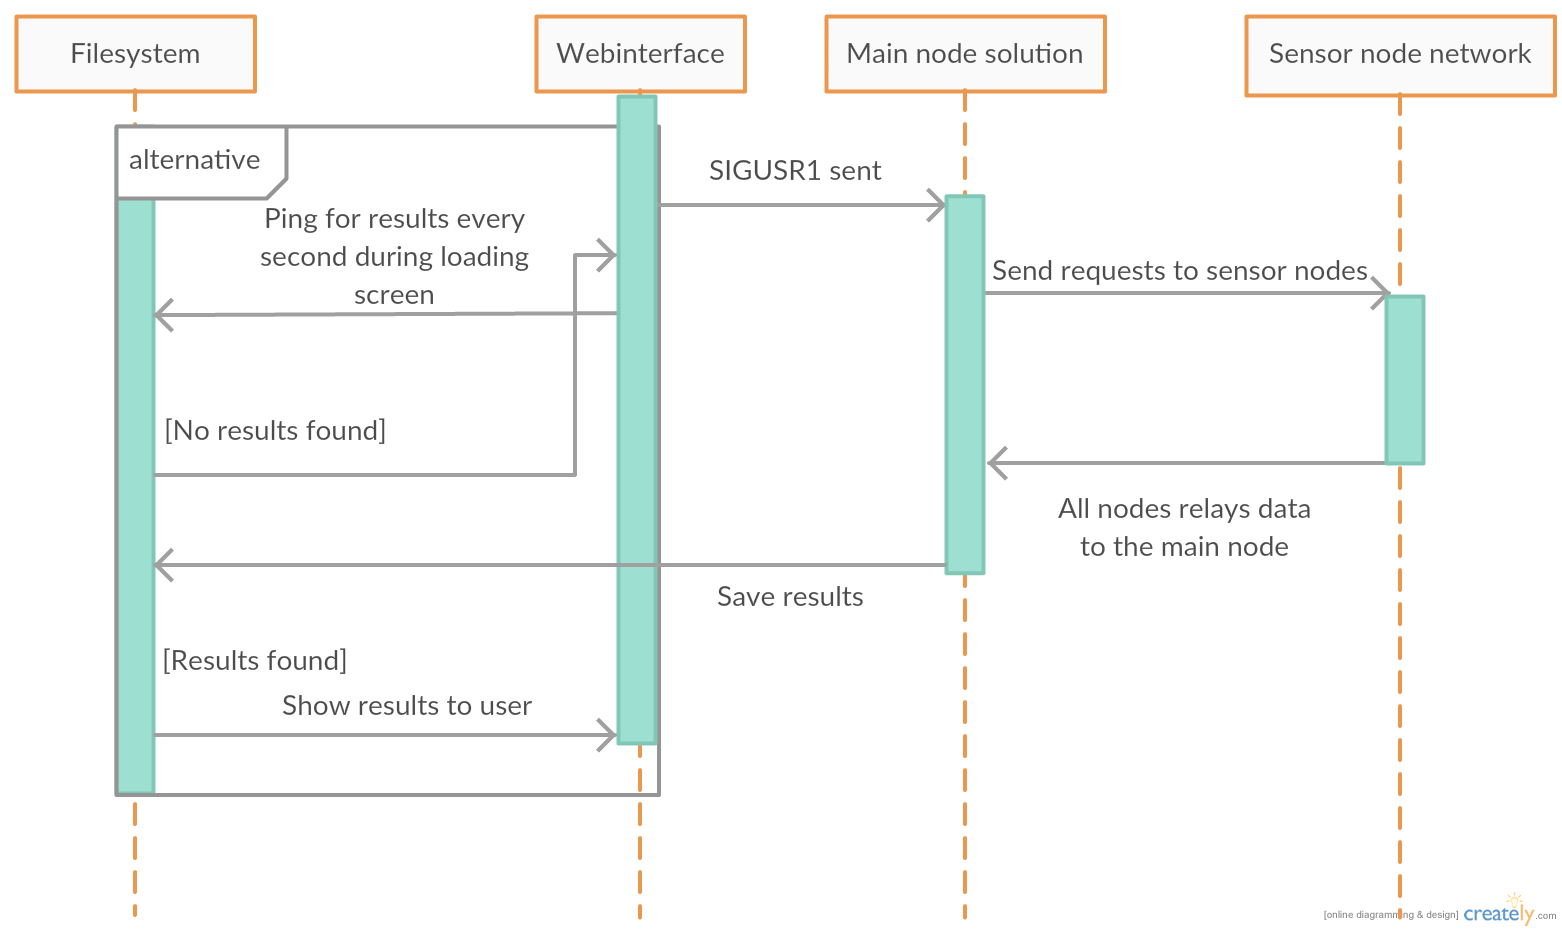
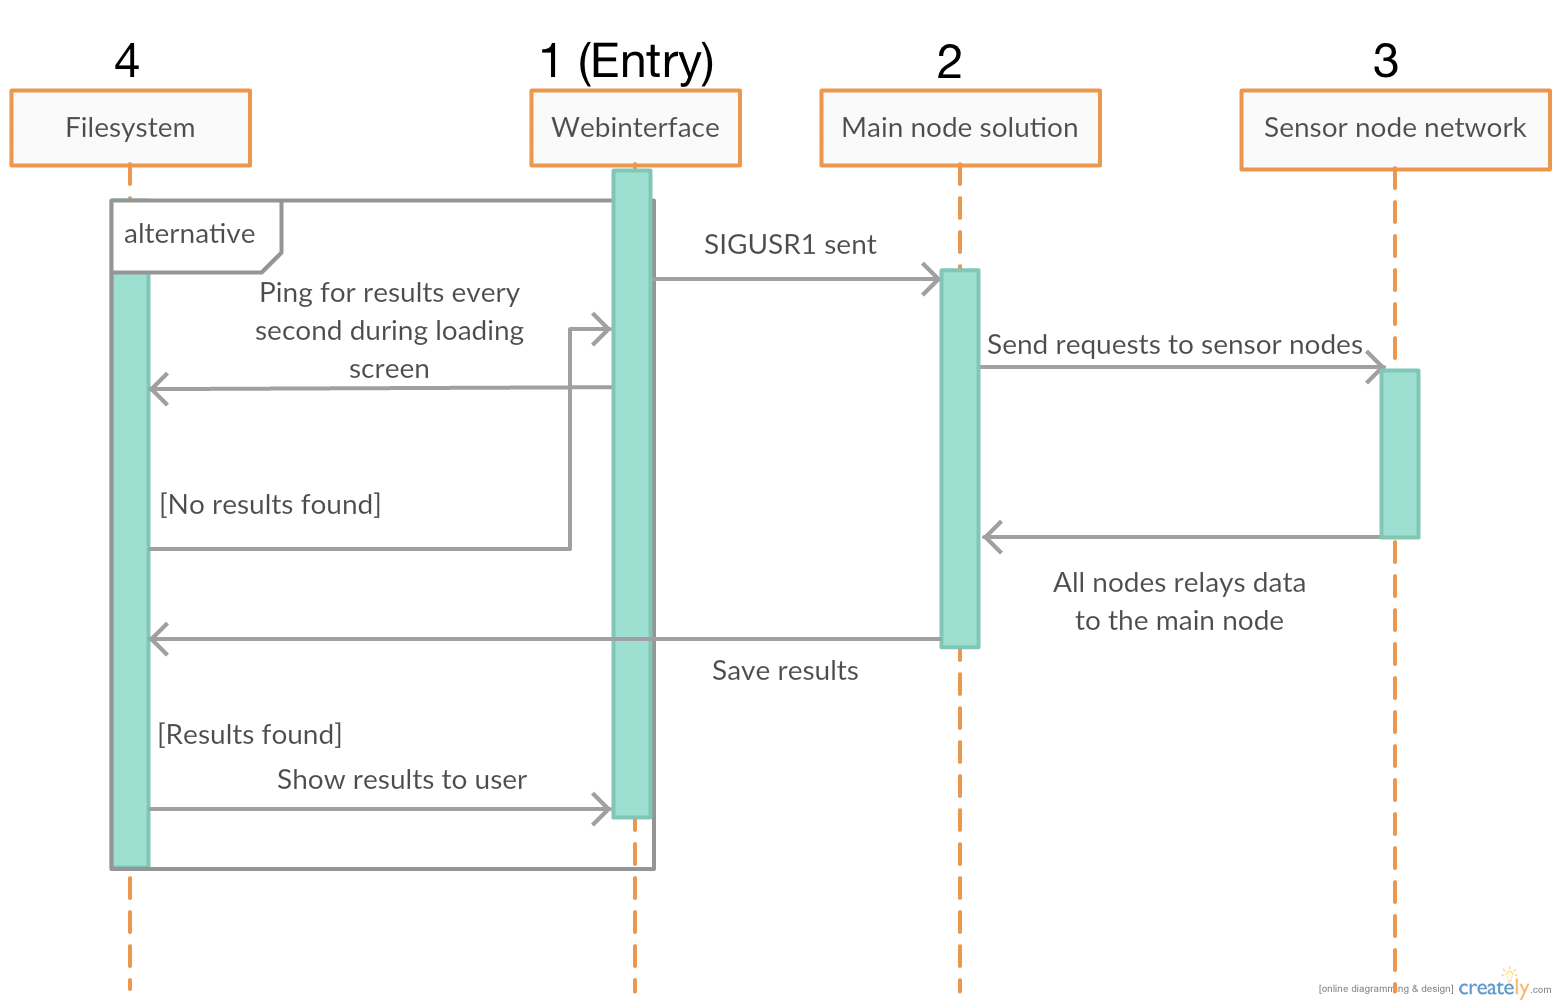
Sequence

Changed region(s): [[0.0, 0.0, 1.0, 0.9978]]

diff --git a/Rapport/chapters/implementation/interface.tex b/Rapport/chapters/implementation/interface.tex
@@ -9,7 +9,7 @@ On startup, the program attempts to fetch the process ID of the main node progra
 
 When \texttt{kill} is issued, the program redirects to a waiting page. On this page, an AJAX request is performed every second to ping for a file in \texttt{/var/www/html/}. This ping will fail until the file \texttt{ping.txt} exists at this location. When the request is finished in the main node software, this file is created and the contents is set to the result name. When the file is written and closed by the main node software, the ping will succeed and the contents will be available. The browser can now be redirected to the result from the waiting screen. The ping file is then deleted as it is no longer needed.
 
-The full sequence is shown in figure \ref{fig:sigsequence}.
+The full sequence is shown in figure \ref{fig:sigsequence}. The diagram starts at the webinterface, and the sequence follows the numbers presented on the diagram.
 \begin{figure}[h!]
 \centering
 \includegraphics[width=1.1\textwidth]{chapters/implementation/figures/sigsequence.png}
